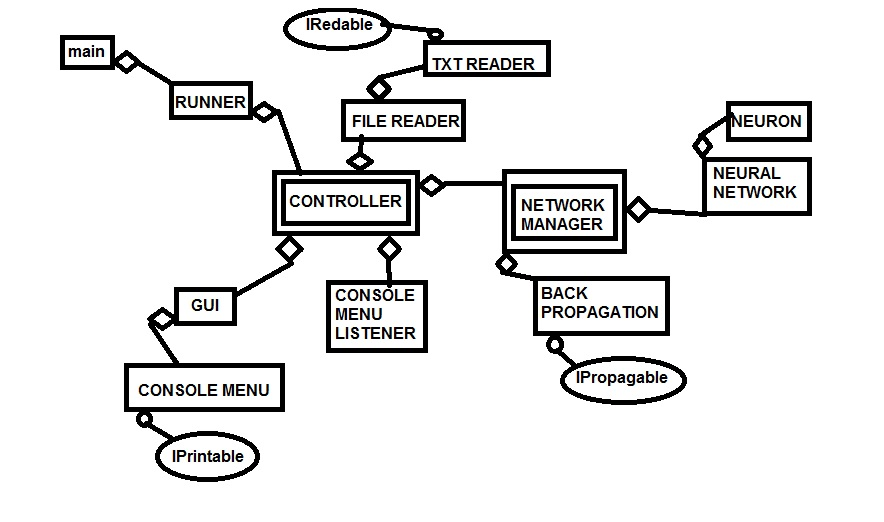
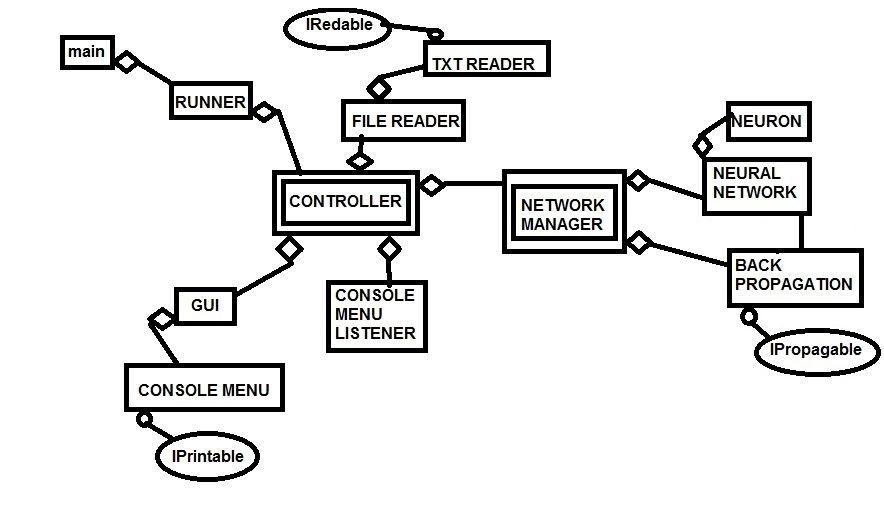
Zmiana diagramu UML. Refaktoryzacja kodu. Drobne zmiany w metodach, w paczce Logic.

diff --git a/PredykcjaCiagu/Logic/NetworkManager.cpp b/PredykcjaCiagu/Logic/NetworkManager.cpp
@@ -4,9 +4,8 @@
 
 NetworkManager::NetworkManager(void)
 {
-	
 	network = new NeuralNetwork(FIRST_NETWORK, SECOND_NETWORK, THIRD_NETWORK);
-	propagation = new BackPropagation();
+	propagation = new BackPropagation(); 
 }
 
 
@@ -14,7 +13,6 @@ NetworkManager::~NetworkManager(void)
 {
 	DestroyNetwork();
 	delete network;
-	delete propagation;
 }
 
 
@@ -37,12 +35,6 @@ void NetworkManager::DestroyNetwork()
 }
 
 
-NeuralNetwork* NetworkManager::TeachNetwork()
-{
-	propagation->Propagation(network);
-	return network;
-}
-
 double NetworkManager::Calculate()
 {
 	int calculations = 0;
@@ -50,25 +42,16 @@ double NetworkManager::Calculate()
 	return calculations;
 }
 
+
 double NetworkManager::RunNetwork()
 {
 	double result = 0;
 
 	network = CreateNetwork();
-	network = TeachNetwork();
+
 	result = Calculate();
 
 	return result;
 }
 
-
-double NetworkManager::ManageNeuralNetwork()
-{
-	double EndResult = 0;
-
-	EndResult = RunNetwork();
-	DestroyNetwork();
-
-	return EndResult; 
-}
 

diff --git a/PredykcjaCiagu/Logic/NeuralNetworkComponents/BackPropagation.cpp b/PredykcjaCiagu/Logic/NeuralNetworkComponents/BackPropagation.cpp
@@ -10,8 +10,9 @@ BackPropagation::~BackPropagation(void)
 {
 }
 
-NeuralNetwork* BackPropagation::Propagation(NeuralNetwork* net)
+NeuralNetwork* BackPropagation::BackPropagationMethod(NeuralNetwork* net)
 {
-	
+	double wynik = 0;
+
 	return net;
 }

diff --git a/PredykcjaCiagu/Logic/NeuralNetworkComponents/NeuralNetwork.h b/PredykcjaCiagu/Logic/NeuralNetworkComponents/NeuralNetwork.h
@@ -2,11 +2,13 @@
 #include "Neuron.h"
 #include <vector>
 
+
 class NeuralNetwork
 {
 private: 
 
 	int network1, network2, network3, flag;
+
 
 	struct NeuronContainer
 	{

diff --git a/PredykcjaCiagu/Interfaces/IPropagable.cpp b/PredykcjaCiagu/Interfaces/IPropagable.cpp
@@ -9,4 +9,3 @@ IPropagable::IPropagable(void)
 IPropagable::~IPropagable(void)
 {
 }
-
